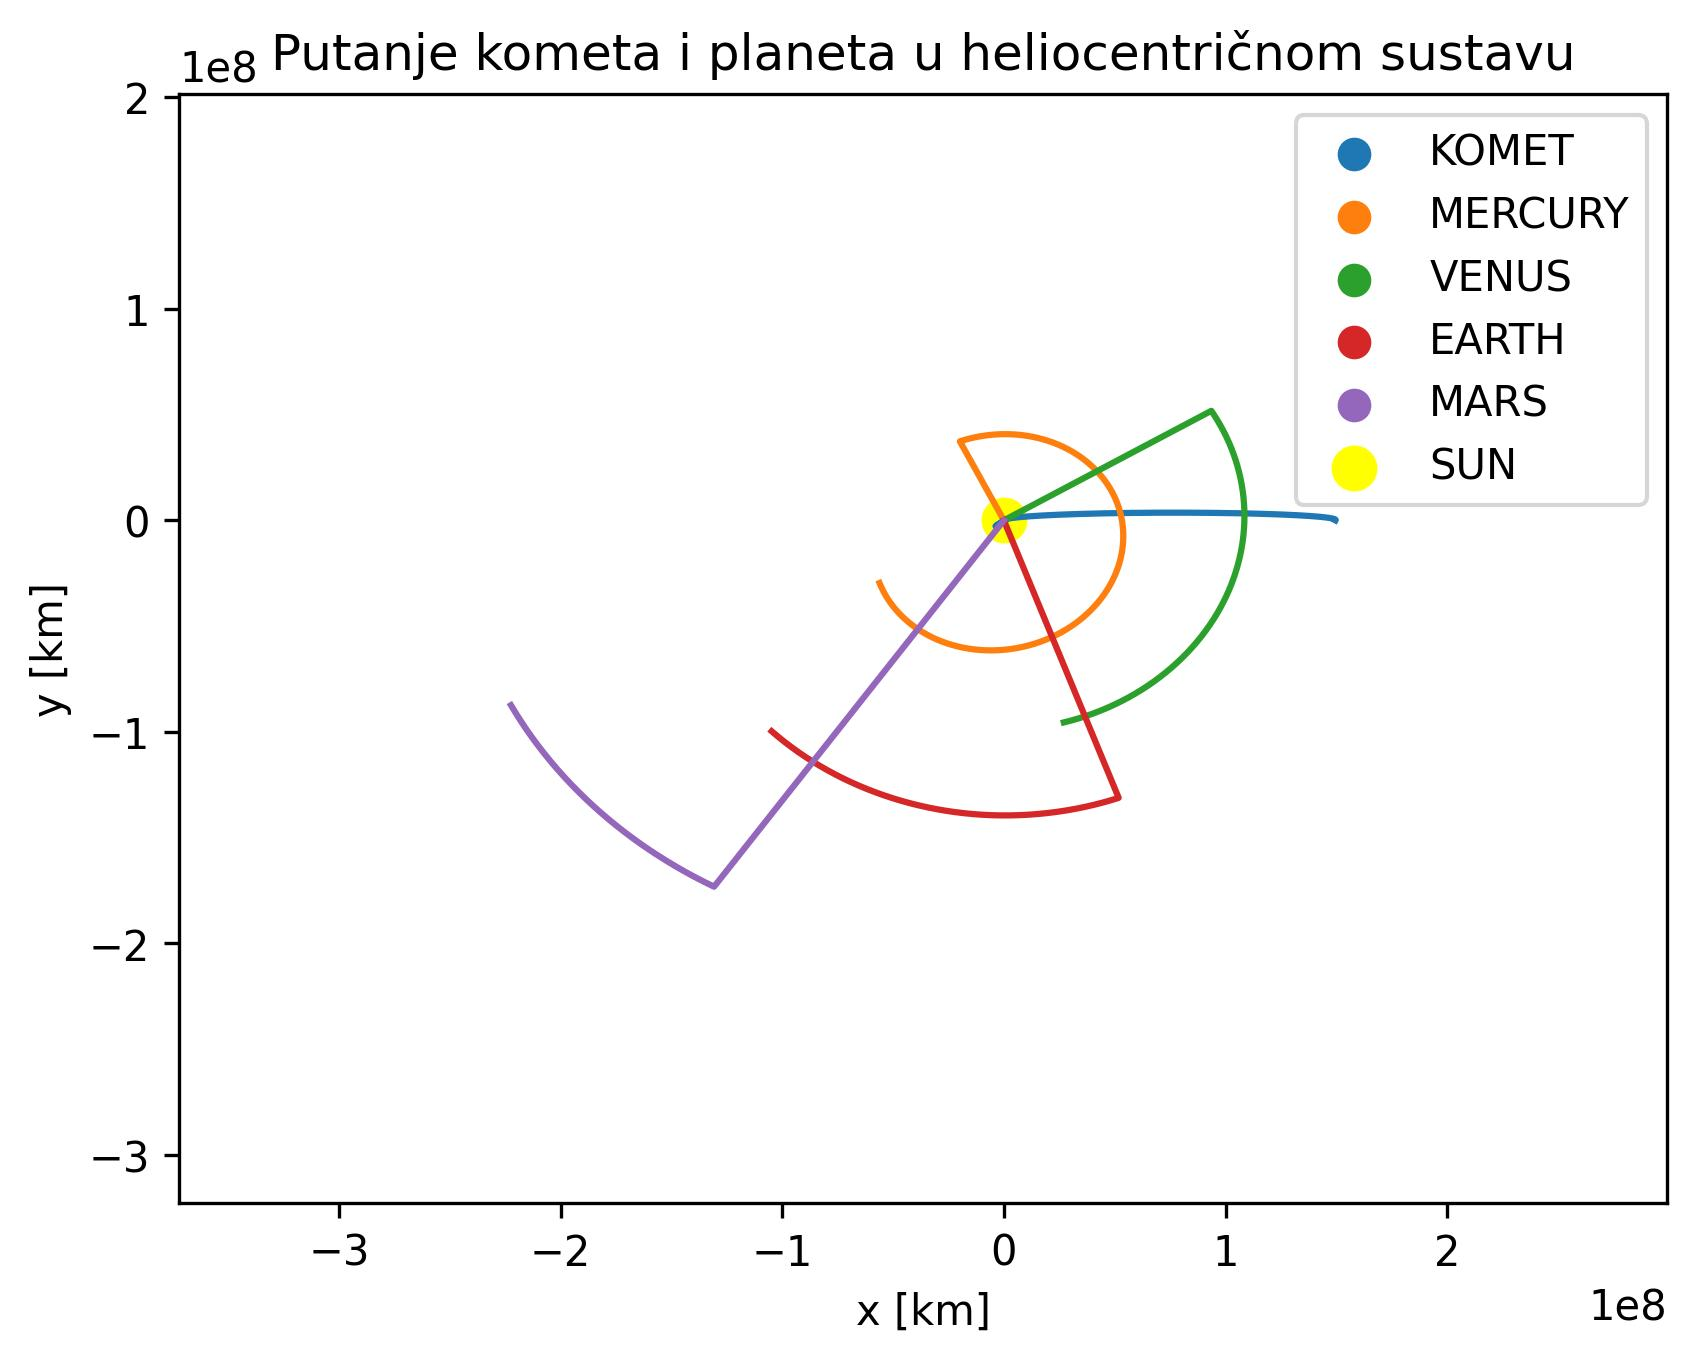
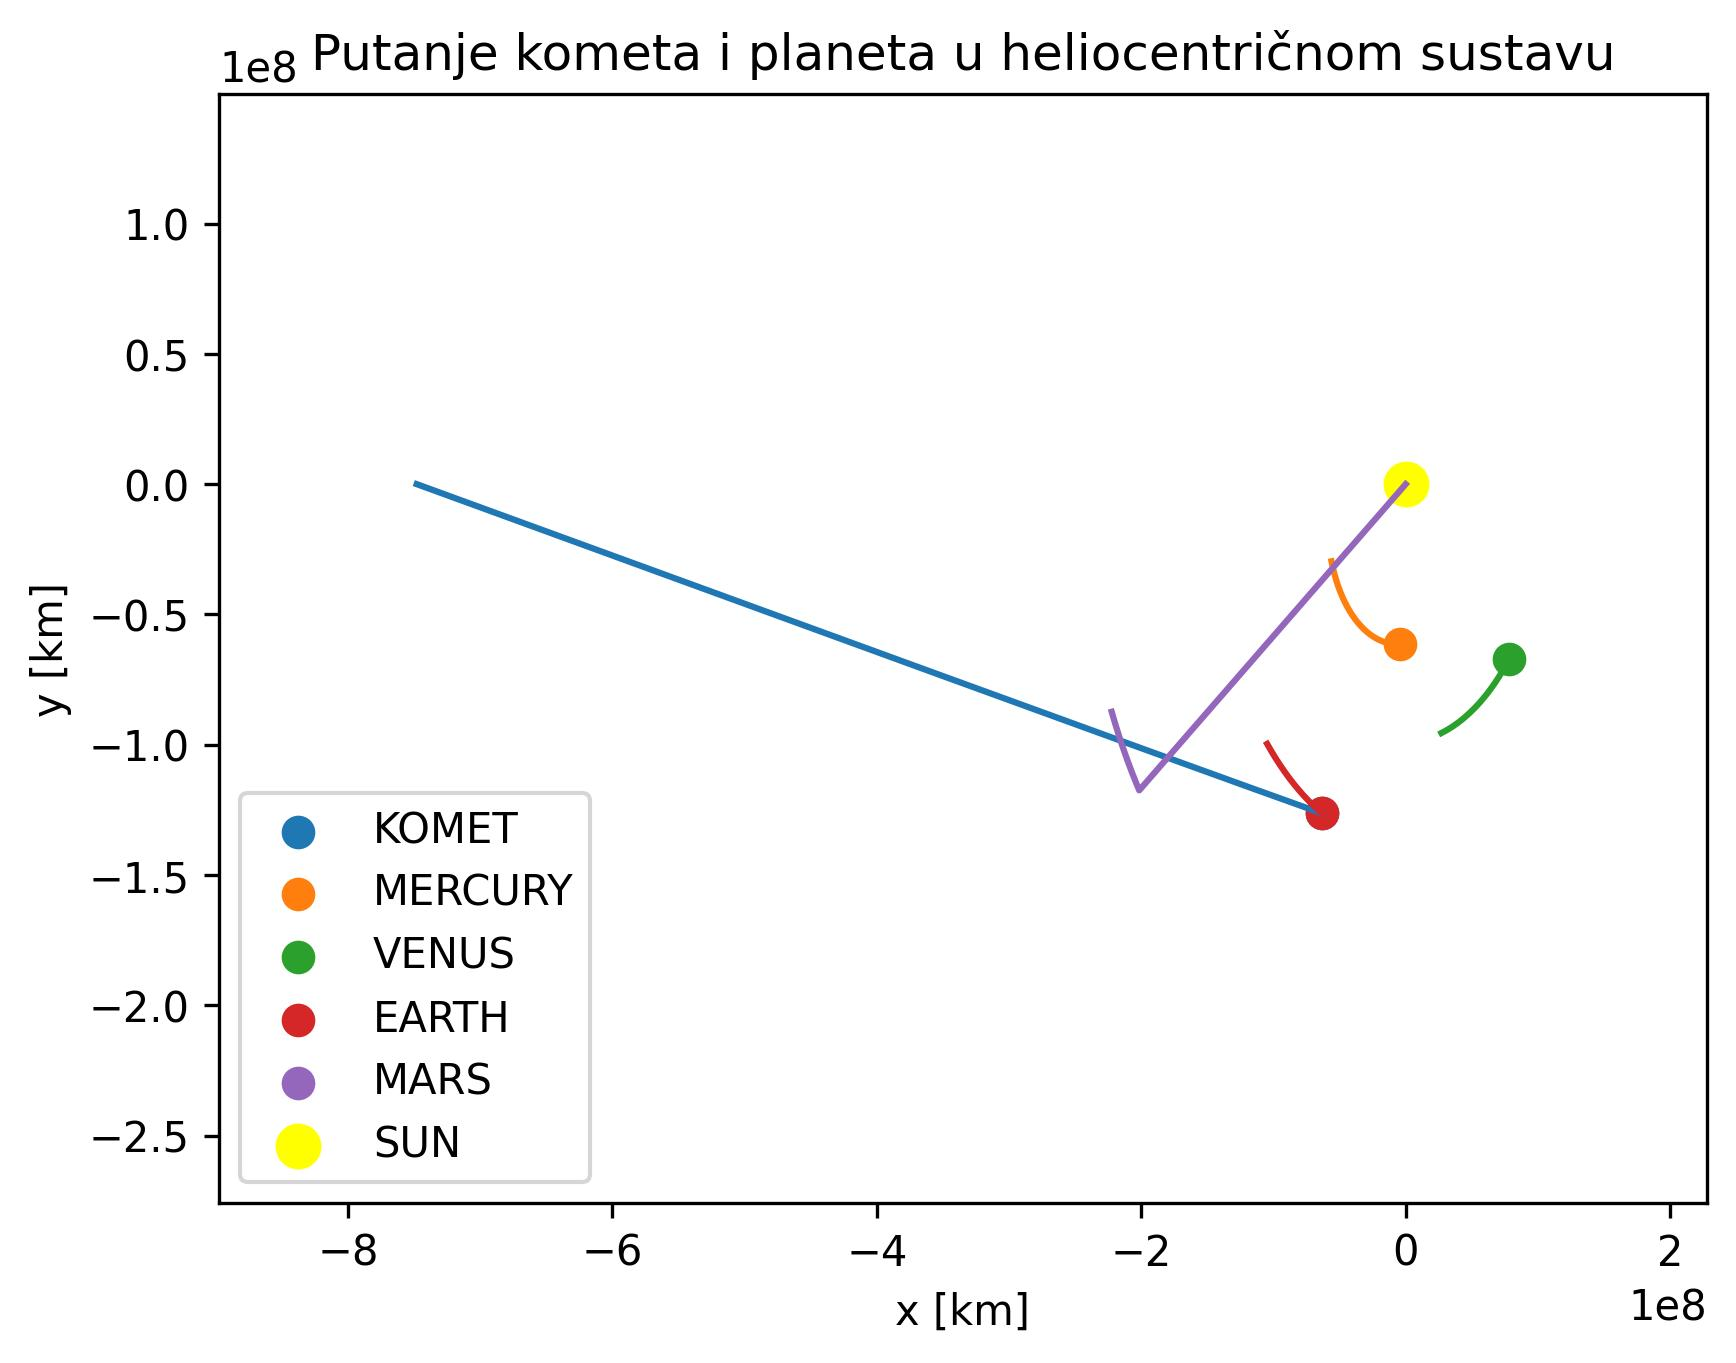
Seminar

diff --git a/Seminar/seminar_4.py b/Seminar/seminar_4.py
@@ -5,10 +5,12 @@ from seminar_3 import *
 from provjera_sudara import *
 import matplotlib.pyplot as plt
 
+M_plot = M_mnp[M_mnp[:, 0, 0] == -1]
+
 plt.figure()
 
-plt.plot(M_mnp[:, 0, 1], M_mnp[:, 0, 2])
-plt.scatter(M_mnp[-1, 0, 1], M_mnp[-1, 0, 2], s=50, label="KOMET")
+plt.plot(M_plot[:, 0, 1], M_plot[:, 0, 2])
+plt.scatter(M_plot[-1, 0, 1], M_plot[-1, 0, 2], s=50, label="KOMET")
 
 for i, ID in enumerate(ID_valid_list):
 
@@ -19,14 +21,14 @@ for i, ID in enumerate(ID_valid_list):
         color = None
         size = 50
 
-    plt.plot(M_mnp[:, i+1, 1], M_mnp[:, i+1, 2], color=color)
-    plt.scatter(M_mnp[-1, i+1, 1], M_mnp[-1, i+1, 2], s=size, label=f"{IME_rječnik[ID]}", color=color)
+    plt.plot(M_plot[:, i+1, 1], M_plot[:, i+1, 2], color=color)
+    plt.scatter(M_plot[-1, i+1, 1], M_plot[-1, i+1, 2], s=size, label=f"{IME_rječnik[ID]}", color=color)
 
-x_min = np.min(M_mnp[:, :, 1]) - 1*AU
-x_max = np.max(M_mnp[:, :, 1]) + 1*AU
+x_min = np.min(M_plot[:, :, 1]) - 1*AU
+x_max = np.max(M_plot[:, :, 1]) + 1*AU
 
-y_min = np.min(M_mnp[:, :, 2]) - 1*AU
-y_max = np.max(M_mnp[:, :, 2]) + 1*AU
+y_min = np.min(M_plot[:, :, 2]) - 1*AU
+y_max = np.max(M_plot[:, :, 2]) + 1*AU
 
 plt.xlim(x_min, x_max)
 plt.ylim(y_min, y_max)

diff --git a/Seminar/seminar_1.py b/Seminar/seminar_1.py
@@ -32,9 +32,9 @@ x0_komet = -5.0*AU   #(u km)
 y0_komet =  0        #(u km)
 z0_komet =  0        #(u km)
 
-vx0_komet =  1       #(u km/s)
-vy0_komet =  1       #(u km/s)
-vz0_komet =  0       #(u km/s)
+vx0_komet =  395.6781  #(u km/s)
+vy0_komet = -73.2829   #(u km/s)
+vz0_komet = -31.7823  #(u km/s)
 
 m_komet = 1.0e14     #(u kg)
 R_komet = 11.0       #(u km)
